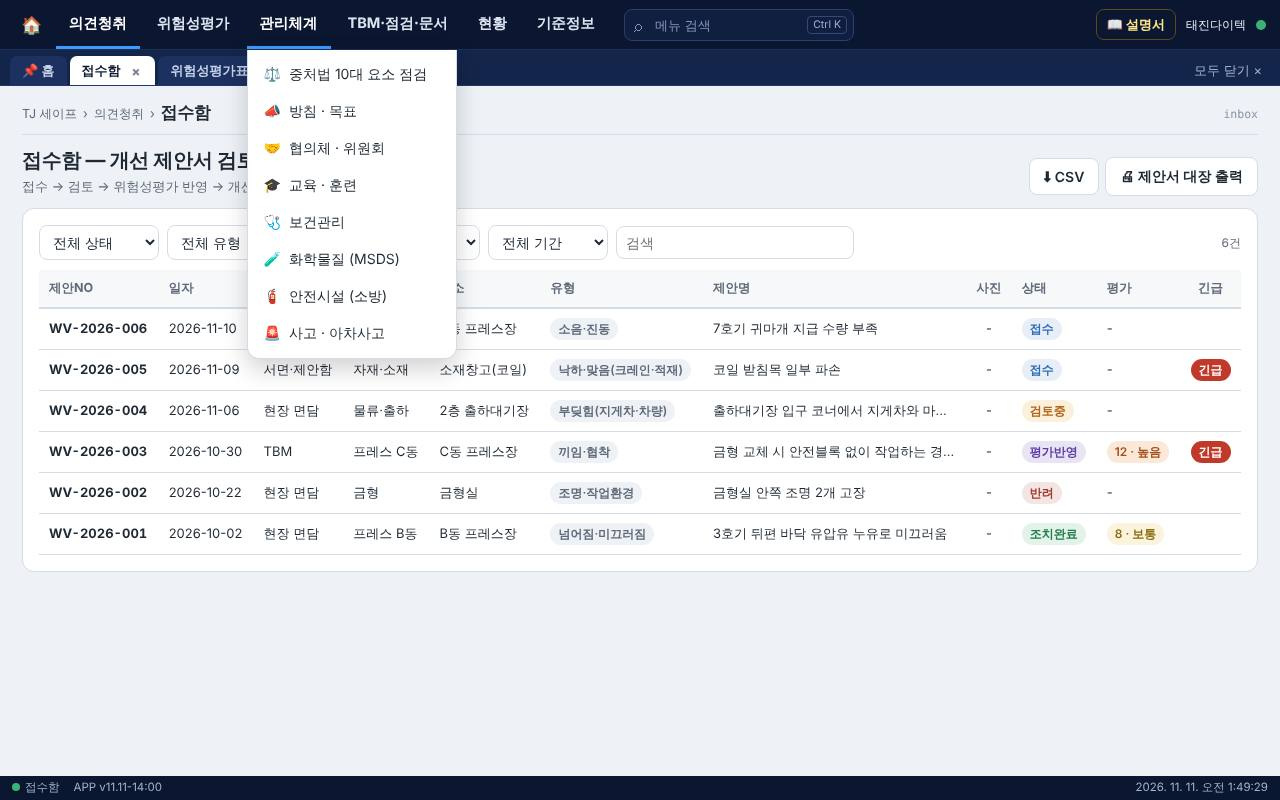
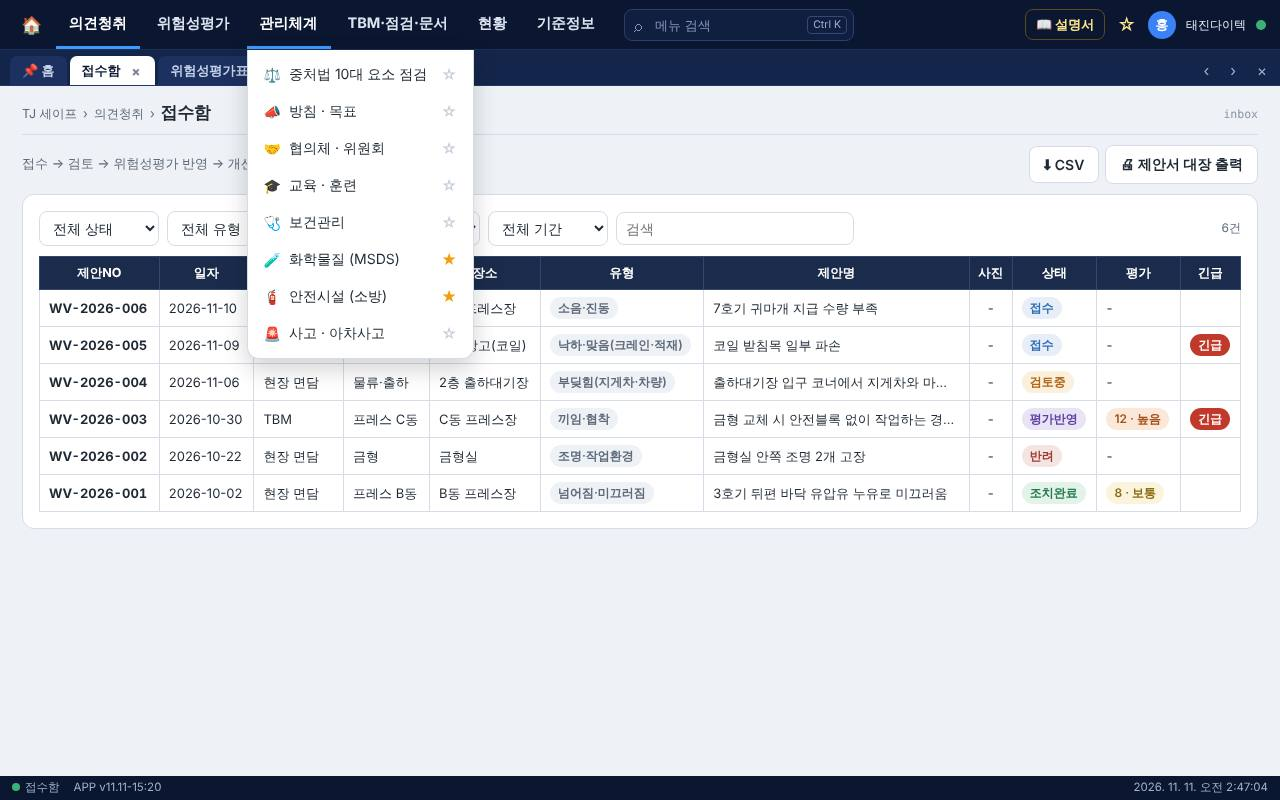
사용 설명서: 새 디자인 화면으로 그림 교체, 홈·탭·즐겨찾기·인쇄 내용 반영
Claude-Session: https://claude.ai/code/session_01YEiwKkmZJuDuTh7BfwfchF

diff --git a/safety_manual.html b/safety_manual.html
@@ -29,7 +29,7 @@ ul,ol{margin:6px 0;padding-left:22px}
 li{margin:2px 0}
 table{width:100%;border-collapse:collapse;margin:8px 0;font-size:14px}
 th,td{border:1px solid var(--line);padding:6px 9px;text-align:left;vertical-align:top}
-th{background:var(--soft);white-space:nowrap}
+th{background:#1B2B4B;color:#fff;border-color:#34466D;white-space:nowrap;text-align:center}
 kbd,.btn{display:inline-block;background:var(--soft);border:1px solid #BFD3F7;border-radius:6px;padding:0 7px;font:inherit;font-size:13.5px;font-weight:700;white-space:nowrap}
 .note{background:var(--soft);border-left:4px solid var(--pri);border-radius:6px;padding:8px 12px;margin:10px 0;font-size:14px}
 .warn{background:var(--warnbg);border-left-color:var(--warn)}
@@ -39,13 +39,13 @@ figcaption{font-size:13px;color:var(--mute);margin-top:4px;text-align:center}
 .two{display:grid;grid-template-columns:1fr 1fr;gap:12px}
 footer{max-width:980px;margin:0 auto;padding:0 16px 40px;color:var(--mute);font-size:13px}
 @media (max-width:700px){nav.toc ol{columns:1}.two{grid-template-columns:1fr}header h1{font-size:21px}}
-@media print{body{background:#fff;font-size:12px}header{background:#fff;color:#000;padding:0 0 8px;border-bottom:2px solid #000}header p{color:#333}header .bt{display:none}section{border:0;padding:0;margin-bottom:14px}nav.toc{border:1px solid #999}h2{page-break-after:avoid}h3{page-break-after:avoid}figure,table,.note{page-break-inside:avoid}main{padding:10px 0}a{color:#000}}
+@media print{th{-webkit-print-color-adjust:exact;print-color-adjust:exact}body{background:#fff;font-size:12px}header{background:#fff;color:#000;padding:0 0 8px;border-bottom:2px solid #000}header p{color:#333}header .bt{display:none}section{border:0;padding:0;margin-bottom:14px}nav.toc{border:1px solid #999}h2{page-break-after:avoid}h3{page-break-after:avoid}figure,table,.note{page-break-inside:avoid}main{padding:10px 0}a{color:#000}}
 </style>
 </head>
 <body>
 <header><div class="in">
   <h1>안전보건 통합관리 사용 설명서</h1>
-  <p>근로자 의견청취 · 위험성평가 · 화학물질(MSDS) · 안전시설(소방) · TBM · 업무일지를 한곳에서 관리하는 방법 · 기준 버전 v11.11</p>
+  <p>근로자 의견청취 · 위험성평가 · 화학물질(MSDS) · 안전시설(소방) · TBM · 업무일지를 한곳에서 관리하는 방법 · 기준 버전 v11.11-15 (남색 상단 메뉴 디자인)</p>
   <div class="bt"><button onclick="window.print()">🖨 인쇄 / PDF로 저장</button><a class="b" href="#" onclick="if(window.opener&&!window.opener.closed){window.close();}else{location.href=/worker_voice/.test(location.pathname)?'./':'safety_voice.html';}return false;">← 앱으로 돌아가기</a></div>
 </div></header>
 <main>
@@ -75,25 +75,41 @@ footer{max-width:980px;margin:0 auto;padding:0 16px 40px;color:var(--mute);font-
 </ol>
 <div class="two">
 <figure><img src="safety_manual/00_pin.jpg" alt="PIN 입력 화면"><figcaption>PIN 입력 화면</figcaption></figure>
-<figure><img src="safety_manual/01_home.jpg" alt="홈 화면"><figcaption>홈 화면 — 바로가기 카드를 누르면 해당 화면으로 이동</figcaption></figure>
+<figure><img src="safety_manual/01_home.jpg" alt="홈 화면"><figcaption>홈 화면 — 즐겨찾기와 바로가기 카드</figcaption></figure>
 </div>
+
+<h3>홈 화면</h3>
+<table>
+<tr><th>상자</th><th>내용</th></tr>
+<tr><td>맨 위</td><td>인사말, 오늘의 안전 문구(누르면 다음 문구), 시계.</td></tr>
+<tr><td>즐겨찾기</td><td>자주 쓰는 화면을 모아 둡니다. 상단 세부 메뉴 항목 오른쪽의 <b>☆</b>를 누르거나, 화면을 연 상태에서 오른쪽 위 <b>☆</b>를 누르면 추가됩니다. 다시 누르면 빠집니다. 즐겨찾기는 그 PC(브라우저)에만 저장됩니다.</td></tr>
+<tr><td>바로가기</td><td>주요 화면 카드입니다. 오른쪽 위 빨간 숫자는 처리할 것이 있다는 표시입니다. (예: 접수함 2 = 미처리 제안 2건)</td></tr>
+<tr><td>안내</td><td>단축키와 탭 사용법 요약, 사용 설명서 열기.</td></tr>
+<tr><td>맨 아래</td><td>최근 접수 제안, 지연·임박 개선조치.</td></tr>
+</table>
+<figure><img src="safety_manual/01b_home.jpg" alt="홈 화면 아래쪽"><figcaption>홈 화면 아래쪽 — 안내 상자</figcaption></figure>
 
 <h3>화면 구성 (PC)</h3>
 <table>
 <tr><th>위치</th><th>이름</th><th>쓰임</th></tr>
-<tr><td>맨 위</td><td>상단 메뉴</td><td>의견청취 · 위험성평가 · 관리체계 · TBM·점검·문서 · 현황 · 기준정보. 마우스를 올리면 세부 메뉴가 펼쳐집니다. 맨 왼쪽 🏠는 홈입니다.</td></tr>
+<tr><td>맨 위</td><td>상단 메뉴</td><td>의견청취 · 위험성평가 · 관리체계 · TBM·점검·문서 · 현황 · 기준정보. 마우스를 올리면 세부 메뉴가 펼쳐지고, 메뉴 이름을 클릭하면 펼쳐진 채로 고정됩니다(다시 클릭하면 해제). 맨 왼쪽 🏠는 홈입니다.</td></tr>
 <tr><td>메뉴 오른쪽</td><td>메뉴 검색</td><td><kbd>Ctrl</kbd>+<kbd>K</kbd>를 누르고 "소방", "MSDS"처럼 입력한 뒤 Enter를 치면 바로 이동합니다.</td></tr>
-<tr><td>메뉴 아래</td><td>탭</td><td>연 화면이 탭으로 쌓입니다. 탭을 눌러 오가고, ×나 마우스 휠 버튼으로 닫습니다. 탭은 10개까지 유지됩니다.</td></tr>
-<tr><td>탭 아래</td><td>경로</td><td>지금 화면이 어느 메뉴에 속하는지 보여 줍니다. (예: TJ 세이프 › 관리체계 › 안전시설)</td></tr>
-<tr><td>오른쪽 위</td><td>📖 설명서 · 초록 점</td><td>이 설명서를 엽니다. 점은 저장 상태입니다. 초록은 정상, 노랑은 저장 중, 빨강은 저장 실패입니다. 점을 누르면 바로 동기화합니다.</td></tr>
+<tr><td>메뉴 아래</td><td>탭</td><td>연 화면이 탭으로 쌓입니다. 탭을 눌러 오가고, ×나 마우스 휠 버튼으로 닫습니다. 탭은 10개까지 유지됩니다.<br><b>탭을 마우스 오른쪽 클릭</b>하면 고정 · 새로고침 · 닫기 · 다른 탭 모두 닫기 메뉴가 나옵니다. 고정한 탭은 📌가 붙고 실수로 닫히지 않습니다.<br>탭 줄 오른쪽의 <b>‹ ›</b>는 탭이 많을 때 좌우로 넘기고, <b>×</b>는 지금 탭과 고정한 탭만 남기고 모두 닫습니다.</td></tr>
+<tr><td>탭 아래</td><td>경로</td><td>지금 화면 이름과 속한 메뉴를 보여 줍니다. (예: TJ 세이프 › 관리체계 › 안전시설) 화면 제목은 이 줄에만 나옵니다.</td></tr>
+<tr><td>오른쪽 위</td><td>📖 설명서 · ☆ · 이름 · 초록 점</td><td>📖는 이 설명서를 엽니다. ☆는 지금 화면을 즐겨찾기에 넣거나 뺍니다. 동그라미는 접속한 사람 이름의 첫 글자입니다. 점은 저장 상태입니다. 초록은 정상, 노랑은 저장 중, 빨강은 저장 실패입니다. 점을 누르면 바로 동기화합니다.</td></tr>
 <tr><td>맨 아래</td><td>상태줄</td><td>지금 화면 이름, 앱 버전(APP v…), 날짜와 시각.</td></tr>
 </table>
-<figure><img src="safety_manual/02_menu.jpg" alt="상단 메뉴와 탭"><figcaption>상단 메뉴를 펼친 모습과 탭</figcaption></figure>
+<div class="two">
+<figure><img src="safety_manual/02_menu.jpg" alt="상단 메뉴와 탭"><figcaption>상단 메뉴를 펼친 모습 — 항목 오른쪽 ☆가 즐겨찾기</figcaption></figure>
+<figure><img src="safety_manual/02b_tabmenu.jpg" alt="탭 오른쪽 클릭 메뉴"><figcaption>탭을 오른쪽 클릭했을 때 나오는 메뉴</figcaption></figure>
+</div>
+<p>목록 화면의 표는 남색 머리글에 칸마다 테두리가 있는 모양입니다. 줄을 누르면 상세 화면이 열립니다.</p>
 
 <h3>휴대폰 화면</h3>
 <ul>
   <li>아래쪽 탭바에 홈 · 제안등록 · 접수함 · 위험성평가 · 전체메뉴가 있습니다.</li>
   <li><b>전체메뉴</b>를 누르면 모든 화면 목록이 나옵니다.</li>
+  <li>휴대폰에는 탭 · 즐겨찾기 · 메뉴 검색이 없습니다. 색만 PC와 같습니다.</li>
 </ul>
 
 <h3>저장 방식</h3>
@@ -351,6 +367,8 @@ footer{max-width:980px;margin:0 auto;padding:0 16px 40px;color:var(--mute);font-
 <tr><td>포털에서 눌러도 창이 안 뜬다</td><td>브라우저의 팝업 차단을 해제합니다. 주소창 오른쪽의 팝업 차단 표시를 눌러 「항상 허용」을 고릅니다.</td></tr>
 <tr><td>MSDS 자동 읽기 결과가 이상하다</td><td>스캔본 PDF는 틀릴 수 있습니다. 「자동 입력 결과 확인」에서 고치고 저장합니다.</td></tr>
 <tr><td>배치도의 위치나 번호가 현장과 다르다</td><td>표시를 눌러 관리번호 · 위치 설명을 고치거나 「위치 이동」으로 옮깁니다. 없는 시설은 상세 화면에서 삭제합니다.</td></tr>
+<tr><td>인쇄가 여러 장으로 나온다</td><td>제안서 양식과 TBM 일지는 A4 한 장에 맞춰져 있습니다. 여러 장이면 새로고침으로 최신 버전인지 확인하세요. 글이 아주 길거나 사진이 많으면 2장이 될 수 있습니다. 인쇄 창에서 배율을 「용지에 맞춤」으로 두면 됩니다.</td></tr>
+<tr><td>즐겨찾기가 다른 PC에서 안 보인다</td><td>즐겨찾기와 열린 탭은 그 PC에만 저장됩니다. 다른 PC에서는 다시 ☆를 눌러 추가합니다.</td></tr>
 <tr><td>실수로 지웠다</td><td>「접속 · 수정 기록」에서 언제 무엇이 바뀌었는지 확인할 수 있습니다. 백업 파일이 있으면 관리자에게 복원을 요청합니다.</td></tr>
 </table>
 </section>
